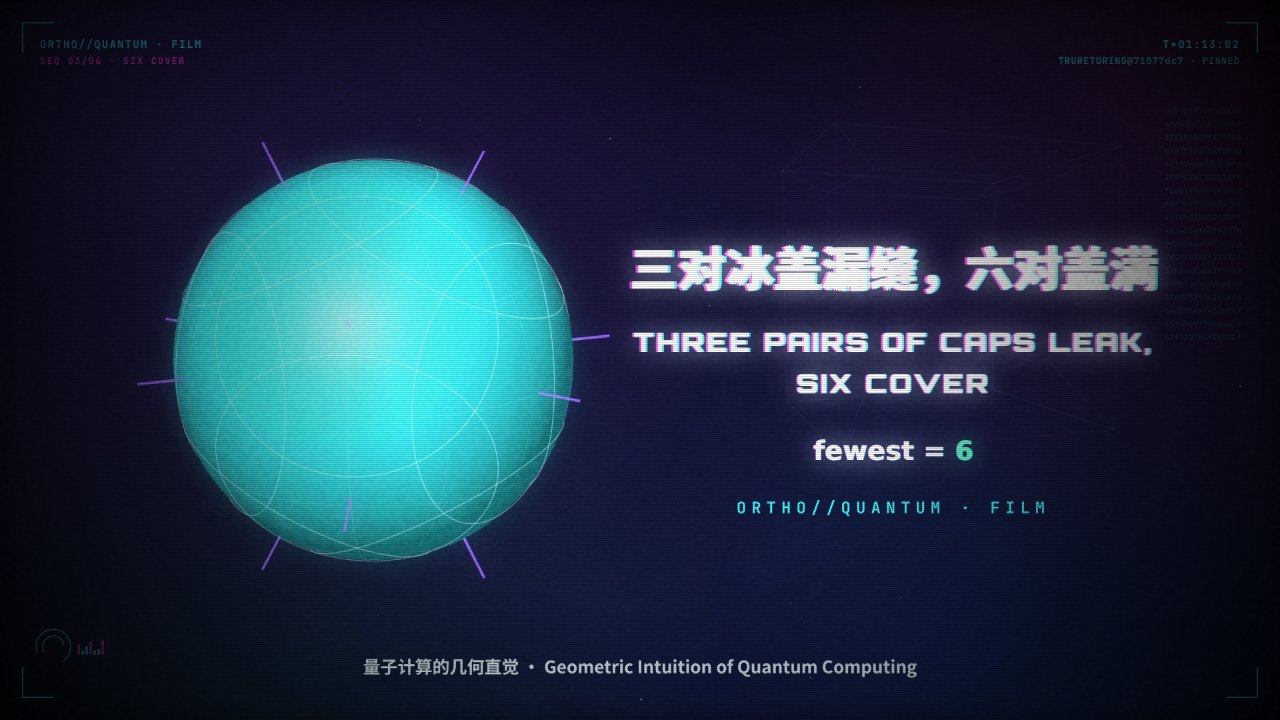
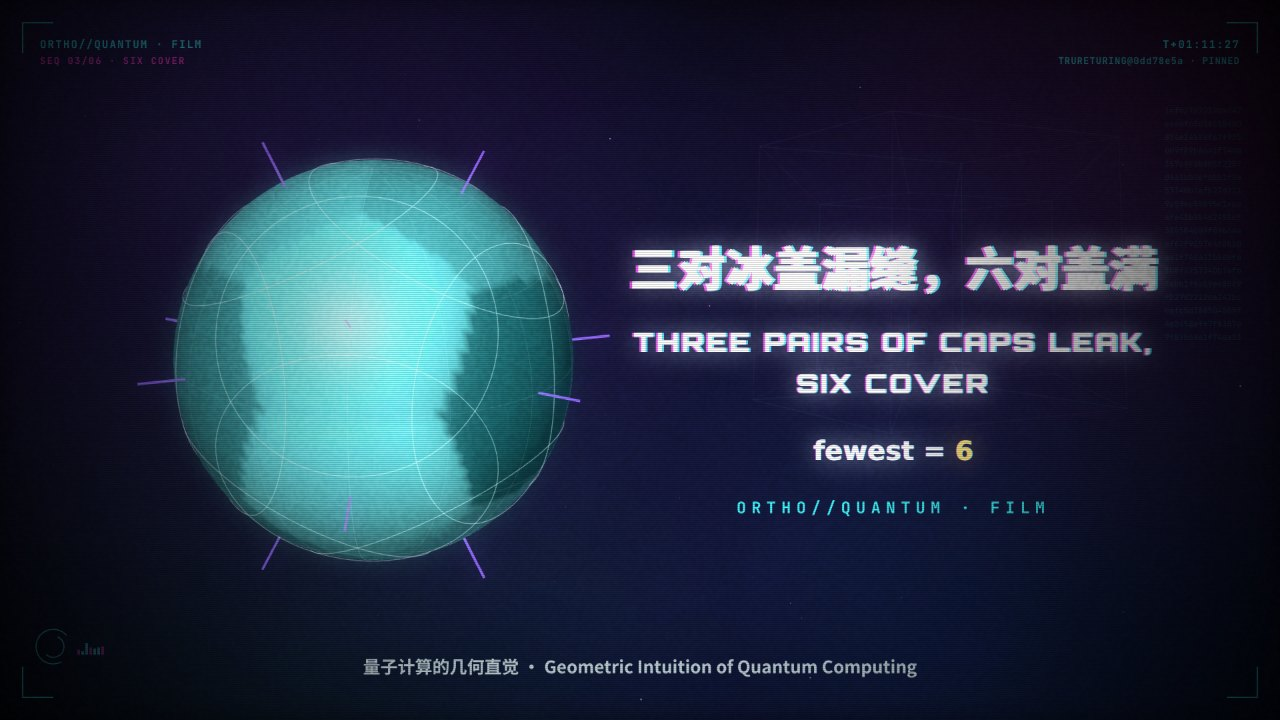
fix(films): 按复核修改 six-axes-cover
必须改：
- 三轴未覆盖比例改为精确值 3/√2 − 2 ≈ 12.1%（六块冰盖只相切不重叠），屏幕、图注、头注同步；场景 six 的动态读数改用八分之一球面中点网格表，s = 0 取精确值。
- Feldman–Wilce 措辞改为“只给出问题 3 的上界部分，对跖覆盖早有先例”，旁白、屏幕、summary、图注同步，图注删去“文献结果”。
- 冰盖场景“overlap 0”标签移到球外左侧，r 标签移开 −a 轴。

建议改：
- “Lean checks the whole picture”改为“these six colors”；去掉“slope one to two”，屏幕写 tan s = 2（沿原轴 1、侧移 2）；“张角”改“偏角 s”。
- 头注与断言写明 15° 与 45° 处的零测缺口，逐度断言跳过 45°。
- 六对冰盖用六种深浅的青色区分（海报同）。
- 组合结论的 6 改琥珀色，并注明“两条 Lean 结论合起来”。
- “a circle needs three right-angle-free colors”，屏幕骨架同步。
- 被球挡住的标签不再画；印章移到右下，不压轴尖；小字放大到 21–24 px。
- edge 第 3 行注释改为“出处说明”。

重新构建，实测 2:14（film.json 与中英图注同步）；重拍改过场景的帧并重做海报；./tbook check --book quantum-geometry 0 错误。

Claude-Session: https://claude.ai/code/session_01FJGySq7rVWTRF4aH8AY9ro

Changed region(s): [[0.125, 0.2139, 0.4688, 0.7639], [0.75, 0.6111, 0.7812, 0.6417]]

diff --git a/books/quantum-geometry/films/six-axes-cover/scenes.js b/books/quantum-geometry/films/six-axes-cover/scenes.js
@@ -10,12 +10,16 @@
             cap more than 90° (angles computed on screen); the circle at 90° from the axis (overlap 0, the blind spot
             of chapter 1) is in no cap.
      three  the coordinate axes e1, e2, e3: on the diagonal d = (1, 1, 1)/√3, (d·e_j)² = 1/3 < 1/2 (computed); the
-            uncovered part of the sphere (magenta) opens round all eight diagonals; the uncovered share 12.2 % comes
-            from a 20 000-point Fibonacci grid (computed).
+            uncovered part of the sphere (magenta) opens round all eight diagonals; the six caps are tangent and do not
+            overlap, so the uncovered share is exactly 1 − 3(1 − 1/√2) = 3/√2 − 2 ≈ 12.1 % (computed).
      six    each coordinate axis splits into two unit axes at angle s from it, s from 0 to arctan 2; at s = arctan 2
             they are the six axes (1, ±2, 0), (0, 1, ±2), (±2, 0, 1) of the Lean module (computed: the grid shows no
-            uncovered point from s ≈ 15° on); on the diagonal (d·a_0)² = 3, 3/5 > 1/2, i.e. 2 · 3 = 6 > 5 (computed);
+            uncovered point for s from 15° on, see below); on the diagonal (d·a_0)² = 3, 3/5 > 1/2, i.e. 2 · 3 = 6 > 5 (computed);
             open, orthogonality-free and covering ..... RationalSixAxisCover.rational_six_axis_open_cover (LEAN).
+            The diagonal is covered iff sin 2s > 1/2 (s > 15°); at s = 45° the six points ±e_j score exactly 1/2, so
+            the sphere is covered for s ∈ (15°, arctan 2] except s = 45° (zero-area gaps at 15° and 45°). The
+            uncovered-share readout comes from a midpoint (z, φ) grid of one octant (all axis sets used here are
+            symmetric under the coordinate sign flips), tabulated every 0.5° (computed).
      five   the point x = (√6/4, √6/4, 1/2) of the chapter's example lies in colors 0, 2, 4 and in no other; its circle
             at right angles meets only colors 1, 3, 5, and each of them is alone on some arc (computed);
             the two steps of the proof — every point misses at least three colors (via the circle), some point lies in
@@ -25,7 +29,8 @@
             the two Lean results put together.
      edge   other axes also cover (s = 30°: worst squared overlap (1 + sin 60°)/3 ≈ 0.622 > 1/2, computed); the
             statements are about orthogonality-free open covers, not smooth frames or the hairy ball (chapter 10);
-            the six-axis construction answers Question 3 of Feldman & Wilce, arXiv:2608.13320v1 (literature).
+            the six-axis construction gives the upper-bound half of Question 3 of Feldman & Wilce, arXiv:2608.13320v1,
+            with classical antecedents in antipodal coverings (provenance, as the Lean module states).
 
    On load, FILM.init checks DATA.lean against the two theorems and re-derives every number shown on screen; any
    disagreement is pushed to window.FILM_ERRORS, which stops the render. */
@@ -65,6 +70,23 @@ const SX_GRID = (() => {
   return pts;
 })();
 const sxUncovered = ax => SX_GRID.reduce((n, p) => n + (sxScore(p, ax) <= 0.5 ? 1 : 0), 0) / SX_GRID.length;
+/* the exact uncovered share of the three coordinate axes: six tangent caps, each (1 − cos 45°)/2 of the sphere */
+const SX_U3 = 3 / Math.SQRT2 - 2;
+/* the uncovered share of sxAxes(s) on a midpoint (z, φ) grid of one octant (area-uniform in z), every 0.5° */
+function sxOctant(ax, N = 260) {
+  let u = 0;
+  for (let i = 0; i < N; i++) {
+    const z = (i + 0.5) / N, r = Math.sqrt(1 - z * z);
+    for (let j = 0; j < N; j++) { const f = (j + 0.5) / N * Math.PI / 2; if (sxScore([r * Math.cos(f), r * Math.sin(f), z], ax) <= 0.5) u++; }
+  }
+  return u / (N * N);
+}
+const SX_UTAB = Array.from({ length: Math.floor(64 / 0.5) + 1 }, (_, k) => sxOctant(sxAxes(sxDeg(k * 0.5))));
+const sxUncoveredAt = s => {
+  if (s <= 1e-9) return SX_U3;
+  const x = s * 180 / Math.PI / 0.5, k = Math.min(SX_UTAB.length - 2, Math.floor(x));
+  return lerp(SX_UTAB[k], SX_UTAB[k + 1], x - k);
+};
 /* the circle at right angles to x: arcs of the colors 1, 3, 5 (degrees of the angle t round the circle) */
 const SX_CF = (() => {
   const e = sxUnit([1, -1, 0]), x = SX_X;
@@ -131,8 +153,9 @@ FILM.init.push(() => {
   /* 2. THREE: the diagonal, and the uncovered share */
   SX_E.forEach((e, j) => check(near(sxDot(SX_D, e) ** 2, 1 / 3), `(d·e${j})² = 1/3`));
   check(near(Math.acos(1 / Math.sqrt(3)) * 180 / Math.PI, 54.735610317245346, 1e-9), 'the diagonal is 54.7° from each axis');
-  const u0 = sxUncovered(SX_E);
-  check(u0 === sxUncovered(sxAxes(0)) && u0.toFixed(3) === '0.122', `three axes leave ${u0} uncovered`);
+  check(near(SX_U3, 1 - 6 * (1 - Math.cos(sxDeg(45))) / 2) && (100 * SX_U3).toFixed(1) === '12.1', 'three axes: 3/√2 − 2 = 12.1 %');
+  check(sxDot(SX_E[0], SX_E[1]) === 0 && near(Math.acos(0), 2 * sxDeg(45)), 'the caps of the coordinate axes are tangent (90° = 45° + 45°)');
+  check(Math.abs(SX_UTAB[0] - SX_U3) < 0.002 && Math.abs(sxUncovered(SX_E) - SX_U3) < 0.002, `octant grid ${SX_UTAB[0]} and sphere grid agree with 3/√2 − 2`);
   /* each of the eight diagonals is uncovered */
   for (let k = 0; k < 8; k++) { const d = sxUnit([k & 1 ? -1 : 1, k & 2 ? -1 : 1, k & 4 ? -1 : 1]); check(sxScore(d, SX_E) <= 0.5 + 1e-12, `diagonal ${k} uncovered`); }
 
@@ -146,8 +169,10 @@ FILM.init.push(() => {
   for (const p of SX_GRID) worst = Math.min(worst, sxScore(p, sxAxes(SX_S)));
   check(worst >= 0.6 - 1e-12 && worst < 0.605, `worst point of the six-axis cover ${worst}`);
   for (const p of SX_GRID) { const m = [0, 1, 2, 3, 4, 5].filter(i => sxIn(p, i)).length; if (m < 1 || m > 3) { fail(`multiplicity ${m}`); break; } }
-  /* the holes are closed on the grid from 15° to arctan 2 (the frames of scene six) */
-  for (let d = 15; d <= 63; d += 1) check(sxUncovered(sxAxes(sxDeg(d))) === 0, `split ${d}° leaves no grid point uncovered`);
+  /* the holes: the diagonal is covered iff sin 2s > 1/2; at 15° and 45° there are zero-area gaps */
+  check(near(sxScore(SX_D, sxAxes(sxDeg(15))), 0.5) && near(sxScore([1, 0, 0], sxAxes(sxDeg(45))), 0.5), 'gaps at exactly 15° and 45°');
+  for (let d = 16; d <= 63; d += 1) if (d !== 45) check(sxUncovered(sxAxes(sxDeg(d))) === 0 && SX_UTAB[2 * d] === 0, `tilt ${d}° leaves no grid point uncovered`);
+  for (let d = 0; d <= 14; d += 1) check(sxScore(SX_D, sxAxes(sxDeg(d))) < 0.5, `tilt ${d}° leaves the diagonal uncovered`);
   check(sxUncovered(sxAxes(sxDeg(5))) > 0 && sxUncovered(sxAxes(sxDeg(10))) > 0, 'small splits still leak');
 
   /* 4. FIVE: the point of the example and its circle */
@@ -204,10 +229,18 @@ const sxShot = (key, V, r) => solid(key, { x: r[0], y: r[1], w: r[2], h: r[3], y
 const SX_UNPAINTED = mix(C.dim, C.bg, 0.45);
 /* the painted ball: value 0 (painted, cyan) where the largest squared overlap with the axes exceeds 1/2, value 1
    (the second colour: unpainted grey, or magenta for a hole) where it does not; a thin ramp smooths the rim */
+const SX_SHADE = [mix(C.cyan, C.bg, 0.5), mix(C.cyan, C.white, 0.35)];
+/* covered points take one shade of cyan per color (the axis of largest overlap); holes take the colour `hole` */
+function sxGlobeValue(x, ax) {
+  let m = 0, k = 0;
+  ax.forEach((a, i) => { const d = sxDot(x, a) * sxDot(x, a); if (d > m) { m = d; k = i; } });
+  const shade = 0.5 * (ax.length > 1 ? k / (ax.length - 1) : 0), t = clamp(0.5 + (0.5 - m) / 0.035);
+  return lerp(shade, 1, t);
+}
 function sxGlobe(sh, ax, hole, o = {}) {
   sh.surface('globe', (u, v) => sxSph(Math.PI * v, TAU * u), {
-    u: [0, 1], v: [0, 1], nu: o.nu || 132, nv: o.nv || 66, colors: [C.cyan, hole], range: [0, 1],
-    value: (u, v) => clamp(0.5 + (0.5 - sxScore(sxSph(Math.PI * v, TAU * u), ax)) / 0.035),
+    u: [0, 1], v: [0, 1], nu: o.nu || 132, nv: o.nv || 66, colors: [SX_SHADE[0], SX_SHADE[1], hole], range: [0, 1],
+    value: (u, v) => sxGlobeValue(sxSph(Math.PI * v, TAU * u), ax),
     grid: { every: [11, 11], color: C.white, alpha: 0.1 }, pick: false
   });
 }
@@ -226,7 +259,8 @@ const sxScale = (p, k) => [p[0] * k, p[1] * k, p[2] * k];
 /* a label at a 3D point of the shot, fainter when the ball hides it */
 function sxTag(sh, p, s, dx, dy, col, a, o = {}) {
   const q = sh.anchor(p);
-  txt(s, q.x + dx, q.y + dy, Object.assign({ size: 26, fam: F.math, w: 700, c: col, a: a * (q.hidden ? 0.3 : 1) }, o));
+  if (q.hidden) return;
+  txt(s, q.x + dx, q.y + dy, Object.assign({ size: 26, fam: F.math, w: 700, c: col, a }, o));
 }
 /* opening title */
 function sxTitle(S) {
@@ -279,8 +313,8 @@ SCENES.caps = S => {
   sxTag(sh, [0, 0, 1.25], '+a', 14, -6, C.vio, a * Q(S, 0, 'Push an axis', 0.8));
   sxTag(sh, [0, 0, -1.25], '−a', 14, 4, C.vio, a * Q(S, 0, 'Push an axis', 0.8));
   if (pa > 0.01) { sxTag(sh, SX_P, 'p', 14, -14, C.now, a * pa); sxTag(sh, SX_Qp, 'q', -34, -10, C.white, a * pa); }
-  if (ra > 0.01) sxTag(sh, SX_R, 'r', 16, 26, C.white, a * ra);
-  if (ea > 0.01) sxTag(sh, [0, -1, 0], 'overlap 0 · 内积为 0', 14, 34, C.white, a * ea, { size: 22, fam: F.zh });
+  if (ra > 0.01) sxTag(sh, SX_R, 'r', -34, 30, C.white, a * ra);
+  if (ea > 0.01) { const eq = sh.anchor([0, 0, 0]); txt('overlap 0 · 内积为 0', V.cx - V.R - 24, eq.y + 8, { size: 24, fam: F.zh, w: 700, align: 'right', c: C.white, a: a * ea }); }
 
   /* right side: the rule of one color */
   const ca = a * Q(S, 0, 'forty-five degrees', 0.6);
@@ -292,9 +326,9 @@ SCENES.caps = S => {
   if (ga > 0.003) {
     panel(1160, 440, 640, 210, ga, C.cyan, 'ANGLES · 夹角  (computed)');
     sxRich([['∠(p, q) = ', C.white], [`${sxAng(SX_P, SX_Qp).toFixed(1)}°`, C.cyan], ['  < 90°', C.white]], 1186, 515, { size: 32, a: ga });
-    txt('same cap · 同一块冰盖', 1186, 552, { size: 20, fam: F.zh, w: 700, c: C.dim, a: ga });
+    txt('same cap · 同一块冰盖', 1186, 552, { size: 22, fam: F.zh, w: 700, c: C.dim, a: ga });
     sxRich([['∠(p, r) = ', C.white], [`${sxAng(SX_P, SX_R).toFixed(1)}°`, C.cyan], ['  > 90°', C.white]], 1186, 605, { size: 32, a: a * ra });
-    txt('opposite caps · 分处两块', 1186, 638, { size: 20, fam: F.zh, w: 700, c: C.dim, a: a * ra });
+    txt('opposite caps · 分处两块', 1186, 638, { size: 22, fam: F.zh, w: 700, c: C.dim, a: a * ra });
   }
   if (ea > 0.01) {
     const qa = a * Q(S, 3, 'How many', 0.6);
@@ -345,14 +379,15 @@ SCENES.three = S => {
     txt('1/2', x0 - 60, yHalf + 8, { size: 22, fam: F.mono, w: 700, align: 'right', c: C.white, a: ra });
     const ka = a * Q(S, 2, 'one third', 0.6);
     sxRich([['at the diagonal · 对角线上:  ', C.white], ['1/3 < 1/2', C.mag]], 1166, 660, { size: 28, a: ka, fam: F.zh });
-    txt('54.7° from every axis > 45° · 离每根轴都是 54.7°', 1166, 700, { size: 20, fam: F.zh, w: 700, c: C.dim, a: ka });
+    txt('54.7° from every axis > 45° · 离每根轴都是 54.7°', 1166, 700, { size: 22, fam: F.zh, w: 700, c: C.dim, a: ka });
   }
   const la = a * at(S, 3, 0.6);
   if (la > 0.003) {
-    sxRich([['uncovered · 没盖住  ≈ ', C.white], [`${(100 * sxUncovered(SX_E)).toFixed(1)} %`, C.mag]], 1166, 760, { size: 28, a: la, fam: F.zh });
-    txt('holes round all 8 diagonals · 8 条对角线周围都漏', 1166, 800, { size: 20, fam: F.zh, w: 700, c: C.mag, a: la });
+    sxRich([['uncovered · 没盖住  ', C.white], ['3/√2 − 2', C.mag], [` ≈ ${(100 * SX_U3).toFixed(1)} %`, C.mag]], 1166, 760, { size: 28, a: la, fam: F.zh });
+    txt('6 caps touch, never overlap · 六块冰盖只相切、不重叠', 1166, 800, { size: 22, fam: F.zh, w: 700, c: C.white, a: la });
+    txt('holes round all 8 diagonals · 8 条对角线周围都漏', 1166, 836, { size: 22, fam: F.zh, w: 700, c: C.mag, a: la });
   }
-  stamp('THE FRAME LEAKS', 640, 820, Q(S, 3, 'The leak is', 0.5), C.mag, 34, -0.05);
+  stamp('THE FRAME LEAKS', 1470, 888, Q(S, 3, 'The leak is', 0.5), C.mag, 34, -0.05);
 };
 
 /* ======================================================================= */
@@ -363,7 +398,7 @@ SCENES.six = S => {
   if (a <= 0) return;
   badgeQ(S, [[0, null, 'computed'], [3, 'Lean checks', 'lean']]);
   const V = sxView(SX_GV.cx, SX_GV.cy, SX_GV.R, -2.1 + 0.01 * (u + 25), SX_GV.el);
-  /* the split angle: 0 → 20° on line 0 (the holes close), on to arctan 2 on line 1 */
+  /* the tilt of each half from its old axis: 0 → 20° on line 0 (the holes close), on to arctan 2 on line 1 */
   const s = sxDeg(20) * ease(Q(S, 0, 'swing the halves', 2.4)) + (SX_S - sxDeg(20)) * ease(Q(S, 1, 'We stop', 2.4));
   const ax = sxAxes(s), done = Q(S, 1, 'whole numbers', 0.6);
   const da = Q(S, 2, 'Back on the diagonal', 0.5);
@@ -381,12 +416,12 @@ SCENES.six = S => {
   ax.forEach((e, i) => sxTag(sh, sxScale(e, 1.27), `a${'₀₁₂₃₄₅'[i]}`, 8, -6, C.vio, a * (0.35 + 0.65 * done), { size: 22 }));
   /* readout */
   panel(1140, 200, 660, 250, a, C.cyan, 'SPLIT · 劈开  (computed)');
-  sxRich([['split angle · 张角  s = ', C.white], [`${(s * 180 / Math.PI).toFixed(1)}°`, C.now]], 1166, 270, { size: 28, a, fam: F.zh });
-  const unc = sxUncovered(ax);
+  sxRich([['tilt from the old axis · 偏角  s = ', C.white], [`${(s * 180 / Math.PI).toFixed(1)}°`, C.now]], 1166, 270, { size: 28, a, fam: F.zh });
+  const unc = sxUncoveredAt(s);
   sxRich([['uncovered · 没盖住  ≈ ', C.white], [`${(100 * unc).toFixed(1)} %`, unc > 0 ? C.mag : C.cyan]], 1166, 320, { size: 28, a, fam: F.zh });
   const wa = a * done;
   if (wa > 0.003) {
-    txt('tan s = 2 · s = 63.4°', 1166, 370, { size: 22, fam: F.mono, w: 700, c: C.white, a: wa });
+    txt('tan s = 2: along 1, sideways 2 · 沿原轴 1、侧移 2', 1166, 370, { size: 22, fam: F.zh, fam: F.mono, w: 700, c: C.white, a: wa });
     txt('(1, ±2, 0)  (0, 1, ±2)  (±2, 0, 1)', 1166, 414, { size: 24, fam: F.mono, w: 700, c: C.vio, a: wa });
   }
   if (da > 0.01) {
@@ -400,9 +435,9 @@ SCENES.six = S => {
     panel(1140, 660, 660, 190, la, C.lean, 'SIX COLORS · 六种颜色');
     txt('open · 开集     no right angle inside · 内部无直角', 1166, 712, { size: 21, fam: F.zh, w: 700, c: C.white, a: la * Q(S, 3, 'six open colors', 0.5) });
     txt('together they cover the sphere · 合起来盖满球面', 1166, 752, { size: 21, fam: F.zh, w: 700, c: C.white, a: la * Q(S, 3, 'cover the sphere', 0.5) });
-    sxLean(1166, 806, SX_LEAN.rational_six_axis_open_cover, la, { size: 18 });
+    sxLean(1166, 806, SX_LEAN.rational_six_axis_open_cover, la, { size: 21 });
   }
-  stamp('COVERED', 640, 820, Q(S, 3, 'cover the sphere', 0.5), C.lean, 34, -0.05);
+  stamp('COVERED', 1470, 888, Q(S, 3, 'cover the sphere', 0.5), C.lean, 34, -0.05);
 };
 
 /* ======================================================================= */
@@ -451,18 +486,18 @@ SCENES.five = S => {
         const e = Math.min(q, sweep);
         if (e > p) fillBox(x0 + p * sc, y + 8, (e - p) * sc, 28, C.white, ra * 0.85 * at(S, 1, 0.6));
       }
-      if (holds) txt('holds x · 含 x → stays off · 不能碰', x1 - 4, y + 30, { size: 18, fam: F.zh, w: 700, align: 'right', c: C.cyan, a: ra * Q(S, 1, 'zero, two and four', 0.6) });
+      if (holds) txt('holds x · 含 x → stays off · 不能碰', x1 - 4, y + 30, { size: 21, fam: F.zh, w: 700, align: 'right', c: C.cyan, a: ra * Q(S, 1, 'zero, two and four', 0.6) });
     }
     if (sweep > 0.5 && sweep < 359.5) line(x0 + sweep * sc, y0, x0 + sweep * sc, y0 + 6 * rh, C.now, ra, 2.5);
-    txt('x: 2(x·aᵢ)² = 6.750, 0.750, 5.199, 0.301, 5.949, 1.051', 1016, 610, { size: 20, fam: F.mono, w: 700, c: C.dim, a: ra * at(S, 1, 0.6) });
+    txt('x: 2(x·aᵢ)² = 6.750, 0.750, 5.199, 0.301, 5.949, 1.051', 1016, 610, { size: 23, fam: F.mono, w: 700, c: C.white, a: ra * at(S, 1, 0.6) });
     const ta = ra * at(S, 2, 0.6);
-    txt('1, 3, 5 each stand alone somewhere · 1、3、5 各有独占的一段', 1016, 645, { size: 20, fam: F.zh, w: 700, c: C.white, a: ta });
+    txt('1, 3, 5 each stand alone somewhere · 1、3、5 各有独占的一段', 1016, 645, { size: 23, fam: F.zh, w: 700, c: C.white, a: ta });
   }
   const pa = a * at(S, 2, 0.6) * (1 - at(S, 3, 0.5));
   if (pa > 0.003) {
     panel(990, 690, 830, 140, pa, C.argued, 'PROOF OUTLINE · 证明骨架');
-    txt('a circle needs 3 colors → every point misses ≥ 3', 1016, 752, { size: 22, fam: F.mono, w: 700, c: C.white, a: pa });
-    txt('圆要三种颜色才盖得住 → 每点至少缺三种', 1016, 796, { size: 22, fam: F.zh, w: 700, c: C.white, a: pa });
+    txt('a circle needs 3 right-angle-free colors → each point misses ≥ 3', 1016, 752, { size: 19, fam: F.mono, w: 700, c: C.white, a: pa });
+    txt('无直角的颜色，一个圆也要三种 → 每点至少缺三种', 1016, 796, { size: 22, fam: F.zh, w: 700, c: C.white, a: pa });
   }
   /* line 3: the countries picture */
   const ka = a * at(S, 3, 0.6) * (1 - at(S, 4, 0.5));
@@ -478,7 +513,7 @@ SCENES.five = S => {
     const ta = ka * Q(S, 3, 'three overlap', 0.6);
     dot(cx + 2, cy - 4, 12, 'g', ta);
     txt('three at once · 三国重叠', cx + 24, cy - 14, { size: 22, fam: F.zh, w: 700, c: C.now, a: ta });
-    txt('pieces too small to wrap the globe · 每块都绕不了球一圈', 1016, 630, { size: 20, fam: F.zh, w: 700, c: C.argued, a: ka });
+    txt('pieces too small to wrap the globe · 每块都绕不了球一圈', 1016, 630, { size: 22, fam: F.zh, w: 700, c: C.argued, a: ka });
   }
   /* line 4: the tally and the theorem */
   const ta = a * at(S, 4, 0.6);
@@ -486,13 +521,14 @@ SCENES.five = S => {
     panel(990, 190, 830, 300, ta, C.argued, 'THE COUNT · 清点');
     sxRich([['somewhere: ≥ 3 present · 某处至少三种在', C.white]], 1016, 262, { size: 24, a: ta, fam: F.zh });
     sxRich([['everywhere: ≥ 3 missing · 处处至少缺三种', C.white]], 1016, 312, { size: 24, a: ta * Q(S, 4, 'three missing', 0.5), fam: F.zh });
-    sxRich([['k ≥ 3 + 3 = ', C.white], ['6', C.lean]], 1016, 386, { size: 40, a: ta * Q(S, 4, 'six', 0.5) });
-    txt('at x here: 3 present, 3 missing · 这里的 x：恰三种在、三种缺', 1016, 444, { size: 20, fam: F.zh, w: 700, c: C.dim, a: ta * Q(S, 4, 'six', 0.5) });
+    sxRich([['k ≥ 3 + 3 = ', C.white], ['6', C.now]], 1016, 386, { size: 40, a: ta * Q(S, 4, 'six', 0.5) });
+    txt('at x here: 3 present, 3 missing · 这里的 x：恰三种在、三种缺', 1016, 444, { size: 22, fam: F.zh, w: 700, c: C.dim, a: ta * Q(S, 4, 'six', 0.5) });
     const la = a * Q(S, 4, 'Lean checks', 0.6);
     panel(990, 520, 830, 230, la, C.lean, 'EVERY OPEN COVER OF THE SPHERE · 球面的任意开覆盖');
     sxRich([['no right angle in any piece  ⟹  ', C.white], ['6 ≤ k', C.lean]], 1016, 590, { size: 28, a: la });
-    sxLean(1016, 640, SX_LEAN.sphere_two_open_orthogonality_free_cover_lower_six, la, { size: 16 });
-    txt('with the six axes: fewest is exactly 6 · 与六轴合起来：最少恰为 6', 1016, 712, { size: 20, fam: F.zh, w: 700, c: C.white, a: la });
+    sxLean(1016, 640, SX_LEAN.sphere_two_open_orthogonality_free_cover_lower_six, la, { size: 19 });
+    txt('with the six axes: fewest is exactly 6 · 与六轴合起来：最少恰为 6', 1016, 700, { size: 22, fam: F.zh, w: 700, c: C.white, a: la });
+    txt('two Lean results combined · 两条 Lean 结论合起来', 1016, 734, { size: 19, fam: F.zh, w: 700, c: C.dim, a: la });
   }
   stamp('6 ≤ k', 500, 820, Q(S, 4, 'at least six', 0.5), C.lean, 36, -0.05);
 };
@@ -505,9 +541,9 @@ SCENES.edge = S => {
   if (a <= 0) return;
   badgeQ(S, [[0, null, 'computed'], [1, null, 'argued']]);
   const rows = [
-    { k: 0, col: C.cyan, en: 'fewest ≠ only', zh: '最少，不等于唯一', note: 'a 30° split also covers: worst 0.622 > 1/2 (computed) · 张角 30° 也盖得满' },
+    { k: 0, col: C.cyan, en: 'fewest ≠ only', zh: '最少，不等于唯一', note: 'a 30° tilt also covers: worst 0.622 > 1/2 (computed) · 偏角 30° 也盖得满' },
     { k: 1, col: C.argued, en: 'right-angle-free patches ≠ hairy ball', zh: '无直角的开块，不是毛球定理', note: 'smooth frames and the hairy ball: chapter 10 · 见第十章' },
-    { k: 2, col: C.argued, en: 'Feldman & Wilce, Question 3', zh: '回答 Feldman 与 Wilce 的问题 3', note: 'arXiv:2608.13320 · literature, no claim of discovery · 文献，本书不主张发现权' }
+    { k: 2, col: C.argued, en: 'Feldman & Wilce, Question 3 · upper bound', zh: '问题 3 的上界部分，对跖覆盖早有先例', note: 'arXiv:2608.13320 · source note, no claim of discovery · 出处说明，本书不主张发现权' }
   ];
   rows.forEach((rw, i) => {
     const ra = a * at(S, rw.k, 0.6);
@@ -516,7 +552,7 @@ SCENES.edge = S => {
     panel(300, y, 1320, 180, ra, rw.col);
     txt(rw.en, 340, y + 58, { size: 32, fam: F.mono, w: 700, c: rw.col, a: ra });
     txt(rw.zh, 340, y + 106, { size: 28, fam: F.zh, w: 700, c: C.white, a: ra });
-    txt(rw.note, 340, y + 150, { size: 20, fam: F.zh, w: 700, c: rw.col === C.cyan ? C.dim : C.argued, a: ra * 0.95 });
+    txt(rw.note, 340, y + 150, { size: 24, fam: F.zh, w: 700, c: rw.col === C.cyan ? C.dim : C.argued, a: ra * 0.95 });
   });
 };
 
@@ -545,7 +581,7 @@ FILM.poster = () => {
   txt(DATA.film.title_zh, 1340, 430, { size: 72, fam: F.zh, w: 900, align: 'center', c: C.white, ab: 4 });
   txt('THREE PAIRS OF CAPS LEAK,', 1340, 528, { size: 40, fam: F.orb, w: 900, align: 'center', c: C.white, ab: 3, ls: 4 });
   txt('SIX COVER', 1340, 590, { size: 40, fam: F.orb, w: 900, align: 'center', c: C.white, ab: 2, ls: 4 });
-  sxRich([['fewest = ', C.white], ['6', C.lean]], 1340, 690, { size: 40, align: 'center', ab: 1 });
+  sxRich([['fewest = ', C.white], ['6', C.now]], 1340, 690, { size: 40, align: 'center', ab: 1 });
   bloom(0.6);
   txt(`${DATA.book.code} · FILM`, 1340, 770, { size: 24, fam: F.mono, w: 700, align: 'center', c: C.cyan, ls: 8 });
   txt(`${DATA.book.title.zh} · ${DATA.book.title.en}`, W / 2, 1010, { size: 26, fam: F.zh, w: 700, align: 'center', c: C.white, a: 0.9 });

diff --git a/books/quantum-geometry/en/ch09-axes-and-state-addressing.md b/books/quantum-geometry/en/ch09-axes-and-state-addressing.md
@@ -279,7 +279,7 @@ The frozen proof proceeds in two concrete steps (`sphere_three_absent_colors` an
 Together, [@prop-rational-six-axis-cover] and [@cor-six-colors-necessary] pin down the exact minimal size of an open orthogonality-free cover of $S^2$ at $k = 6$.
 
 ::: {.film src="six-axes-cover"}
-**Three pairs of caps leak, six cover (2 min 10 s).** A violet axis carries a cyan $45^\circ$ cap at each end, and the two caps together make one color: two points of one cap are $47.6^\circ < 90^\circ$ apart, two points from opposite caps $127.9^\circ > 90^\circ$, and the white dashed circle at right angles to the axis enters neither cap. The three pairs of caps of the coordinate axes leave magenta holes round all eight diagonals: the diagonal $(1, 1, 1)/\sqrt{3}$ has squared overlap $1/3 < 1/2$ with every axis, and about $12.2\%$ of the sphere is uncovered. Splitting each axis in two and opening the halves like scissors closes the holes early; stopping at slope $1:2$ turns the axes into the whole-number vectors $(1, \pm 2, 0)$, $(0, 1, \pm 2)$, $(\pm 2, 0, 1)$, where the diagonal scores $3/5 > 1/2$, that is $2 \cdot 3 = 6 > 5$; the six colors are open, contain no right angle and together cover the sphere ([@prop-rational-six-axis-cover]). The amber point $x = \bigl(\frac{\sqrt{6}}{4}, \frac{\sqrt{6}}{4}, \frac{1}{2}\bigr)$ lies in colors $0, 2, 4$; its white right-angle circle, unrolled into six rows, meets only $1, 3, 5$, each of them alone on some stretch. The step "a circle needs three colors and somewhere three colors overlap, so $k \ge 3 + 3$" is the violet proof outline, the countries on a globe are only an analogy, and the conclusion $6 \le k$ is [@cor-six-colors-necessary]. The film closes by noting that six is the fewest but not the only way (a $30^\circ$ split also covers), that the statements are not the hairy ball theorem, and that the six axes answer a question of Feldman and Wilce (a literature result). The angles, squared overlaps, uncovered share and the stretches on the right-angle circle are computed on screen.
+**Three pairs of caps leak, six cover (2 min 14 s).** A violet axis carries a cyan $45^\circ$ cap at each end, and the two caps together make one color: two points of one cap are $47.6^\circ < 90^\circ$ apart, two points from opposite caps $127.9^\circ > 90^\circ$, and the white dashed circle at right angles to the axis enters neither cap. The three pairs of caps of the coordinate axes leave magenta holes round all eight diagonals: the diagonal $(1, 1, 1)/\sqrt{3}$ has squared overlap $1/3 < 1/2$ with every axis, and since these six caps only touch and never overlap, exactly $1 - 3\bigl(1 - \tfrac{1}{\sqrt{2}}\bigr) = \tfrac{3}{\sqrt{2}} - 2 \approx 12.1\%$ of the sphere is uncovered. Splitting each axis in two and opening the halves like scissors closes the holes early; when each half is tilted from its old axis by an angle $s$ with $\tan s = 2$, the axes become the whole-number vectors $(1, \pm 2, 0)$, $(0, 1, \pm 2)$, $(\pm 2, 0, 1)$, where the diagonal scores $3/5 > 1/2$, that is $2 \cdot 3 = 6 > 5$; the six pairs of caps are told apart by six shades of cyan, and these six colors are open, contain no right angle and together cover the sphere ([@prop-rational-six-axis-cover]). The amber point $x = \bigl(\frac{\sqrt{6}}{4}, \frac{\sqrt{6}}{4}, \frac{1}{2}\bigr)$ lies in colors $0, 2, 4$; its white right-angle circle, unrolled into six rows, meets only $1, 3, 5$, each of them alone on some stretch. The step "even a circle needs three right-angle-free colors and somewhere three colors overlap, so $k \ge 3 + 3$" is the violet proof outline, the countries on a globe are only an analogy, and the conclusion $6 \le k$ is [@cor-six-colors-necessary]; "the fewest is exactly $6$" puts the two Lean results together. The film closes by noting that six is the fewest but not the only way (a $30^\circ$ tilt also covers), that the statements are not the hairy ball theorem, and that the six axes give only the upper-bound part of Question 3 of Feldman and Wilce, with classical antecedents in antipodal coverings (a note on provenance). The angles, squared overlaps, uncovered share and the stretches on the right-angle circle are computed on screen.
 :::
 
 Let us check both two-angle addressing and rational six-axis membership on a single explicit vector.

diff --git a/books/quantum-geometry/zh/ch09-axes-and-state-addressing.md b/books/quantum-geometry/zh/ch09-axes-and-state-addressing.md
@@ -282,7 +282,7 @@ $$
 把 [@prop-rational-six-axis-cover] 与 [@cor-six-colors-necessary] 合在一起，我们得到了一个极其漂亮的精确极值结论：**三维空间单位球面 $S^2$ 的无正交对开覆盖最小块数恰好等于 $6$**（上界由显式有理六轴构造实现，下界由拓扑阻碍封死）。
 
 ::: {.film src="six-axes-cover"}
-**三对冰盖漏缝，六对盖满（2 分 10 秒）。** 一根紫色的轴两端各套一块 $45^\circ$ 的青色冰盖，两块合成一种颜色：同一块里两点夹角 $47.6^\circ < 90^\circ$，分处两块的两点夹角 $127.9^\circ > 90^\circ$，与轴成直角的白色虚线圈不进任何一块。三根坐标轴的三对冰盖在八条对角线周围露出品红的洞：对角线 $(1, 1, 1)/\sqrt{3}$ 与每根轴的内积平方都是 $1/3 < 1/2$，没盖住的部分约占球面 $12.2\%$。把每根轴劈成两根、像剪刀一样张开，洞很早就合上，停在斜率 $1:2$ 时轴成为整数向量 $(1, \pm 2, 0)$、$(0, 1, \pm 2)$、$(\pm 2, 0, 1)$，对角线得 $3/5 > 1/2$，即 $2 \cdot 3 = 6 > 5$；六种颜色是开集、内部无直角、合起来盖满球面（[@prop-rational-six-axis-cover]）。琥珀色的点 $x = \bigl(\frac{\sqrt{6}}{4}, \frac{\sqrt{6}}{4}, \frac{1}{2}\bigr)$ 落在颜色 $0, 2, 4$ 里，它的白色直角圈拉直成六行后只碰到 $1, 3, 5$，且三种颜色各有独占的一段；“圆要三种颜色、某处必有三种重叠，故 $k \ge 3 + 3$”是紫色的证明骨架，地球仪上的国家只是比方，结论 $6 \le k$ 见 [@cor-six-colors-necessary]。片尾说明六是最少而非唯一（张角 $30^\circ$ 也盖得满），这里讲的不是毛球定理，六轴构造回答的是 Feldman 与 Wilce 的问题（文献结果）。片中的角度、内积平方、覆盖比例与直角圈上的分段都是屏幕上的计算。
+**三对冰盖漏缝，六对盖满（2 分 14 秒）。** 一根紫色的轴两端各套一块 $45^\circ$ 的青色冰盖，两块合成一种颜色：同一块里两点夹角 $47.6^\circ < 90^\circ$，分处两块的两点夹角 $127.9^\circ > 90^\circ$，与轴成直角的白色虚线圈不进任何一块。三根坐标轴的三对冰盖在八条对角线周围露出品红的洞：对角线 $(1, 1, 1)/\sqrt{3}$ 与每根轴的内积平方都是 $1/3 < 1/2$，这六块冰盖只相切、不重叠，没盖住的部分占球面 $1 - 3\bigl(1 - \tfrac{1}{\sqrt{2}}\bigr) = \tfrac{3}{\sqrt{2}} - 2 \approx 12.1\%$。把每根轴劈成两根、像剪刀一样张开，洞很早就合上；每半根轴偏离原轴的偏角 $s$ 满足 $\tan s = 2$ 时，轴成为整数向量 $(1, \pm 2, 0)$、$(0, 1, \pm 2)$、$(\pm 2, 0, 1)$，对角线得 $3/5 > 1/2$，即 $2 \cdot 3 = 6 > 5$；六对冰盖用六种深浅的青色区分，这六种颜色是开集、内部无直角、合起来盖满球面（[@prop-rational-six-axis-cover]）。琥珀色的点 $x = \bigl(\frac{\sqrt{6}}{4}, \frac{\sqrt{6}}{4}, \frac{1}{2}\bigr)$ 落在颜色 $0, 2, 4$ 里，它的白色直角圈拉直成六行后只碰到 $1, 3, 5$，且三种颜色各有独占的一段；“一个圆也要三种无直角的颜色、某处必有三种重叠，故 $k \ge 3 + 3$”是紫色的证明骨架，地球仪上的国家只是比方，结论 $6 \le k$ 见 [@cor-six-colors-necessary]；“最少恰为 $6$”是两条 Lean 结论合起来得到的。片尾说明六是最少而非唯一（偏角 $30^\circ$ 也盖得满），这里讲的不是毛球定理；六轴构造只给出 Feldman 与 Wilce 问题 3 的上界部分，这类对跖覆盖早有先例（出处说明）。片中的角度、内积平方、覆盖比例与直角圈上的分段都是屏幕上的计算。
 :::
 
 现在，让我们在同一个具体球面状态点上，把本章的两角寻址、旋量半角向量与有理六轴染色一口气亲手算通。
